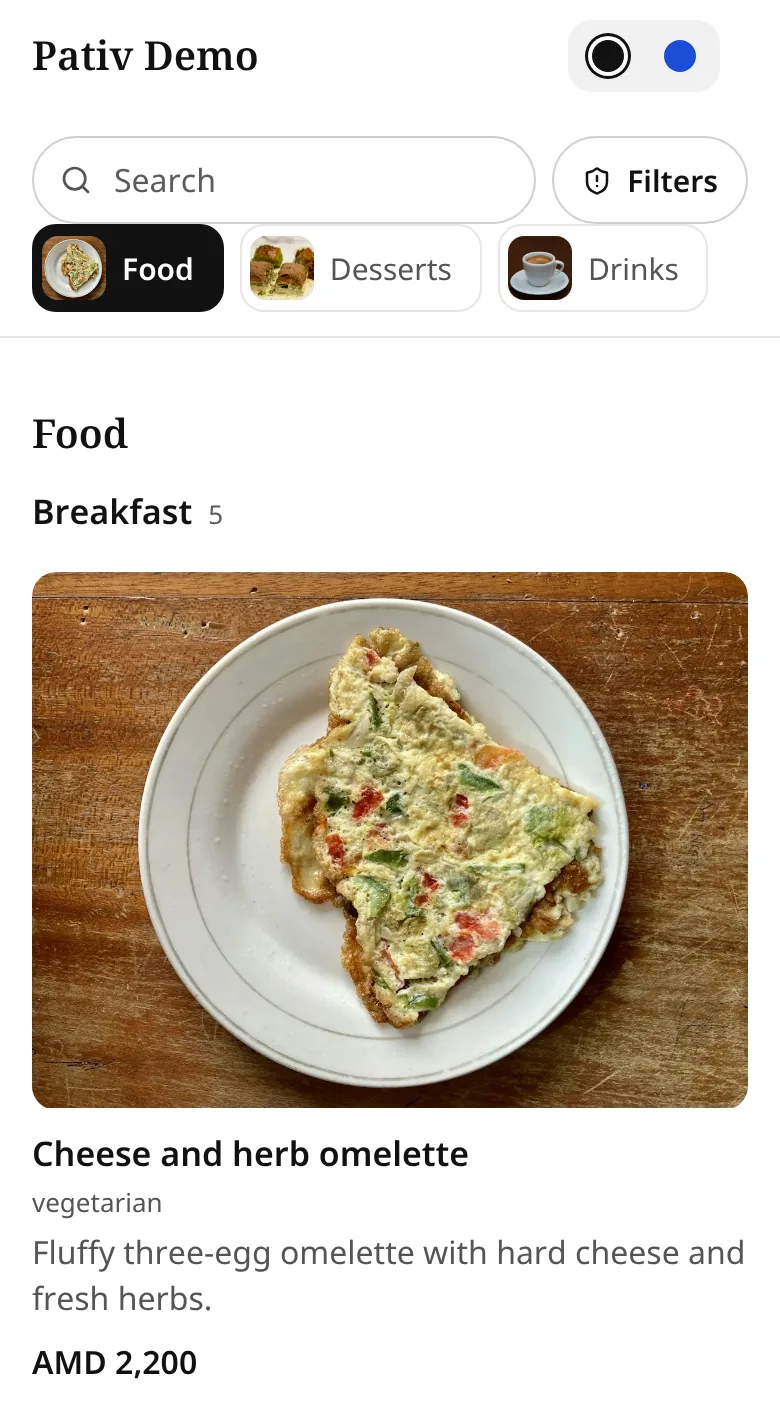
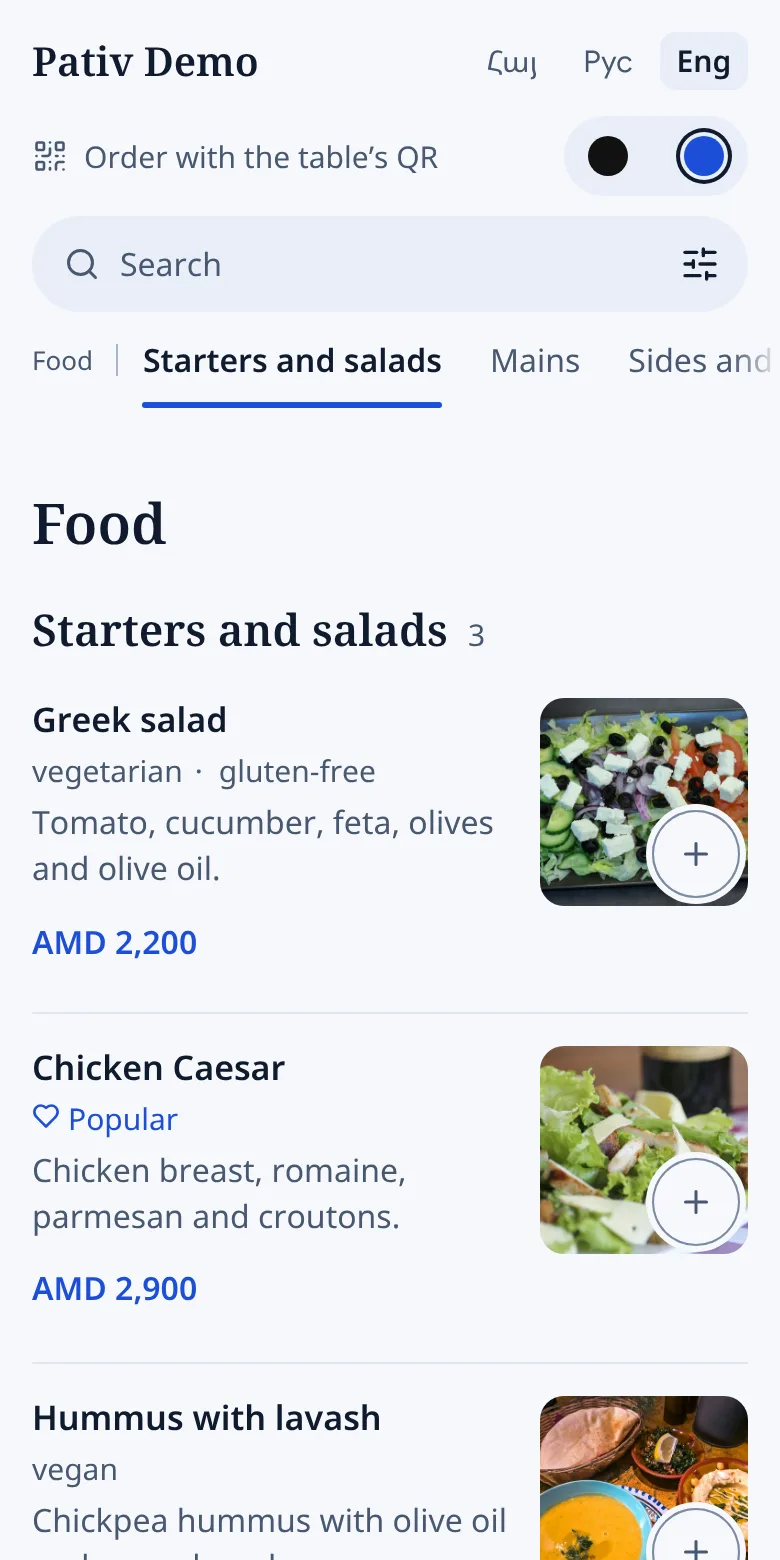
Landing: blue and white instead of sand, smaller plain type, hero shows one whole phone screen of the current demo menu (underline tabs, blue palette)
Claude-Session: https://claude.ai/code/session_018pVGXs4JKGewySeDAK8CYL

diff --git a/src/app/[locale]/page.tsx b/src/app/[locale]/page.tsx
@@ -30,9 +30,9 @@ const PHONE_HEIGHT: Partial<Record<(typeof SURFACES)[number], Record<string, num
 };
 const WIDE = { width: 1440, height: 1376 };
 
-// The hero picture: the live demo menu at 390 px (2x), down to just above the
-// hairline that opens the second dish, so it ends on white under the price.
-const HERO = { width: 780, height: 1418 };
+// The hero picture: one phone screen of the live demo menu (blue palette,
+// 390x780 at 2x), shown whole in a thin phone frame.
+const HERO = { width: 780, height: 1560 };
 
 const STEPS = ["step1", "step2", "step3"] as const;
 // Three facts the hero doesn't already say: the offline queue, the CSV export
@@ -41,19 +41,19 @@ const WHY = ["offline", "export", "telegram"] as const;
 
 // One container for the whole page: 1120 px, 16 px gutters on phones, 32 px from md.
 const container = "mx-auto w-full max-w-[1120px] px-4 md:px-8";
-const h2 = "display-face m-0 text-large leading-tight font-normal! md:text-[2rem]";
+const h2 = "m-0 text-[1.375rem] leading-tight font-semibold tracking-[-0.01em] md:text-[1.625rem]";
 // Plan features: regular weight in both columns, a short dash before each line.
 const planList =
-  "text-name m-0 mt-6 flex list-none flex-col gap-2 p-0 leading-normal [&>li]:relative [&>li]:pl-5 [&>li]:before:absolute [&>li]:before:left-0 [&>li]:before:text-slate [&>li]:before:content-['–']";
+  "text-label m-0 mt-6 flex list-none flex-col gap-2 p-0 leading-normal [&>li]:relative [&>li]:pl-5 [&>li]:before:absolute [&>li]:before:left-0 [&>li]:before:text-slate [&>li]:before:content-['–']";
 // From md the two plans share four subgrid rows (name, price, term, button),
 // so both 56 px buttons sit on one line right under the price; what follows
 // (the terms and the list) flows on its own in the fifth row, top-aligned.
 const planColumn =
   "flex flex-col items-start md:row-span-5 md:grid md:grid-rows-subgrid md:content-start md:justify-items-start";
 // The plan's terms in one plain sentence under the price.
-const planTerms = "text-name m-0 mt-8 max-w-[44ch] leading-normal text-pretty";
+const planTerms = "text-label m-0 mt-6 max-w-[44ch] leading-normal text-pretty";
 const outlineButton =
-  "text-ink inline-flex min-h-14 items-center justify-center rounded-full bg-white px-6 text-base font-semibold no-underline shadow-[inset_0_0_0_1px_var(--color-staff-field)]";
+  "text-ink inline-flex min-h-12 items-center justify-center rounded-full bg-white px-5 text-label font-semibold no-underline shadow-[inset_0_0_0_1px_var(--color-pativ-line)] hover:shadow-[inset_0_0_0_1px_var(--color-pativ-blue)]";
 const textLink =
   "text-ink inline-flex min-h-11 items-center text-label font-semibold no-underline underline-offset-4 hover:underline";
 
@@ -135,7 +135,7 @@ export default async function LocaleHome({ params }: { params: Promise<{ locale:
   const signupButton = (
     <a
       href={signupHref}
-      className="bg-ink inline-flex min-h-14 items-center justify-center rounded-full px-6 text-base font-semibold text-white no-underline"
+      className="bg-pativ-blue hover:bg-pativ-blue-deep inline-flex min-h-12 items-center justify-center rounded-full px-5 text-label font-semibold text-white no-underline"
     >
       {t("ctaSignup")}
     </a>
@@ -170,7 +170,7 @@ export default async function LocaleHome({ params }: { params: Promise<{ locale:
             </a>
             <a
               href={signupHref}
-              className="bg-ink text-label motion-safe:animate-in motion-safe:fade-in ml-1 hidden min-h-11 items-center rounded-full px-4 font-semibold whitespace-nowrap text-white no-underline group-data-cta:inline-flex motion-safe:duration-200 sm:inline-flex"
+              className="bg-pativ-blue hover:bg-pativ-blue-deep text-label motion-safe:animate-in motion-safe:fade-in ml-1 hidden min-h-11 items-center rounded-full px-4 font-semibold whitespace-nowrap text-white no-underline group-data-cta:inline-flex motion-safe:duration-200 sm:inline-flex"
             >
               <span className="sm:hidden">{t("nav.signup")}</span>
               <span className="hidden sm:inline">{t("ctaSignup")}</span>
@@ -180,28 +180,28 @@ export default async function LocaleHome({ params }: { params: Promise<{ locale:
       </header>
 
       <main>
-        {/* Hero: the headline and the real menu, which overlaps the band below
-            so the two read as one page. The picture opens the live demo. */}
+        {/* Hero: the headline and one phone screen of the real menu, whole and
+            on white. The picture opens the live demo. */}
         <section
-          className={`${container} grid gap-10 pt-8 md:pt-16 lg:grid-cols-12 lg:items-center lg:gap-8 lg:pt-20`}
+          className={`${container} grid gap-10 pt-8 pb-14 md:pt-14 md:pb-20 lg:grid-cols-12 lg:items-center lg:gap-8 lg:pt-16`}
         >
-          <div className="lg:col-span-6 lg:pb-24">
-            <h1 className="display-face m-0 max-w-[18em] text-[2.5rem] leading-[1.05] font-normal! tracking-[-0.02em] text-balance md:text-[3.5rem] xl:text-[4rem]">
+          <div className="lg:col-span-6">
+            <h1 className="m-0 max-w-[20em] text-[1.875rem] leading-[1.15] font-semibold tracking-[-0.015em] text-balance md:text-[2.25rem] xl:text-[2.5rem]">
               {t("title")}
             </h1>
-            <p className="text-slate mt-5 mb-0 max-w-[34ch] text-lg leading-normal text-pretty md:mt-8 md:text-xl">
+            <p className="text-slate mt-4 mb-0 max-w-[40ch] text-base leading-normal text-pretty md:mt-5 md:text-[1.0625rem]">
               {t("lead")}
             </p>
-            <div id="landing-hero-cta" className="mt-8 flex flex-col gap-3 sm:flex-row sm:flex-wrap md:mt-10">
+            <div id="landing-hero-cta" className="mt-7 flex flex-col gap-3 sm:flex-row sm:flex-wrap md:mt-8">
               <a
                 href={demoHref}
-                className="bg-ink inline-flex min-h-14 items-center justify-center rounded-full px-6 text-base font-semibold text-white no-underline"
+                className="bg-pativ-blue hover:bg-pativ-blue-deep inline-flex min-h-12 items-center justify-center rounded-full px-5 text-label font-semibold text-white no-underline"
               >
                 {t("ctaDemo")}
               </a>
               <a
                 href={signupHref}
-                className="text-ink inline-flex min-h-14 items-center justify-center rounded-full bg-white px-6 text-base font-semibold no-underline shadow-[inset_0_0_0_1px_var(--color-staff-field)]"
+                className={outlineButton}
               >
                 {t("ctaSignup")}
               </a>
@@ -214,7 +214,7 @@ export default async function LocaleHome({ params }: { params: Promise<{ locale:
                 role="img"
                 aria-label={t("qr.alt")}
                 shapeRendering="crispEdges"
-                className="text-ink size-28 shrink-0 rounded-[12px] shadow-[inset_0_0_0_1px_var(--color-hairline)]"
+                className="text-ink size-24 shrink-0 rounded-[12px] shadow-[inset_0_0_0_1px_var(--color-pativ-line)]"
               >
                 <path fill="currentColor" d={demoQr.d} />
               </svg>
@@ -223,11 +223,11 @@ export default async function LocaleHome({ params }: { params: Promise<{ locale:
               </p>
             </div>
           </div>
-          <div className="relative z-10 -mb-16 lg:col-span-5 lg:col-start-8 lg:-mb-24">
+          <div className="lg:col-span-5 lg:col-start-8">
             <a
               href={demoHref}
               aria-label={t("ctaDemo")}
-              className="shadow-soft-float mx-auto block w-full max-w-[360px] overflow-hidden rounded-[20px] lg:max-w-[400px]"
+              className="mx-auto block w-full max-w-[300px] overflow-hidden rounded-[36px] border-[6px] border-[#0f172a] bg-[#0f172a] shadow-[0_24px_48px_-20px_rgb(29_78_216/0.35)] lg:max-w-[320px]"
             >
               {/* eslint-disable-next-line @next/next/no-img-element -- static webp at 2x, sized below; no image runtime on the landing */}
               <img
@@ -236,25 +236,25 @@ export default async function LocaleHome({ params }: { params: Promise<{ locale:
                 width={HERO.width}
                 height={HERO.height}
                 fetchPriority="high"
-                className="block h-auto w-full"
+                className="block h-auto w-full rounded-[30px]"
               />
             </a>
           </div>
         </section>
 
-        <section aria-labelledby="landing-features" className="bg-sand">
-          <div className={`${container} pt-28 pb-14 md:pb-24 lg:pt-40`}>
+        <section aria-labelledby="landing-features" className="bg-pativ-tint">
+          <div className={`${container} py-14 md:py-20`}>
             <h2 id="landing-features" className={h2}>
               {t("features.title")}
             </h2>
             <Showcase labelledBy="landing-features" panels={panels} action={signupButton} />
             {/* Proof, as one plain line under a hairline: the pictures are the
                 working product, and the demo menu is one tap away. */}
-            <p className="border-sand-line text-name m-0 mt-12 flex flex-col items-start gap-x-4 gap-y-1 border-t pt-6 leading-normal text-pretty sm:flex-row sm:flex-wrap sm:items-center md:mt-16">
+            <p className="border-pativ-line text-label m-0 mt-12 flex flex-col items-start gap-x-4 gap-y-1 border-t pt-6 leading-normal text-pretty sm:flex-row sm:flex-wrap sm:items-center md:mt-16">
               <span>{t("proof.text")}</span>
               <a
                 href={demoHref}
-                className="text-ink text-name inline-flex min-h-11 items-center font-semibold underline underline-offset-4"
+                className="text-pativ-blue text-label inline-flex min-h-11 items-center font-semibold underline underline-offset-4"
               >
                 {t("proof.link")}
               </a>
@@ -263,18 +263,18 @@ export default async function LocaleHome({ params }: { params: Promise<{ locale:
         </section>
 
         <section aria-labelledby="landing-start">
-          <div className={`${container} py-14 md:py-24`}>
+          <div className={`${container} py-14 md:py-20`}>
             <h2 id="landing-start" className={h2}>
               {t("start.title")}
             </h2>
             <ol className="m-0 mt-8 grid list-none gap-10 p-0 md:mt-12 md:grid-cols-3 md:gap-12">
               {STEPS.map((s, i) => (
                 <li key={s} className="flex flex-col">
-                  <span aria-hidden="true" className="display-face text-figure num font-normal!">
+                  <span aria-hidden="true" className="num bg-pativ-tint text-pativ-blue flex size-9 items-center justify-center rounded-full text-label font-semibold">
                     {i + 1}
                   </span>
-                  <h3 className="text-heading m-0 mt-3 font-semibold">{t(`start.${s}.title`)}</h3>
-                  <p className="text-slate text-name m-0 mt-2 max-w-[34ch] leading-normal text-pretty">
+                  <h3 className="text-name m-0 mt-4 font-semibold">{t(`start.${s}.title`)}</h3>
+                  <p className="text-slate text-label m-0 mt-2 max-w-[36ch] leading-normal text-pretty">
                     {t(`start.${s}.text`)}
                   </p>
                 </li>
@@ -284,7 +284,7 @@ export default async function LocaleHome({ params }: { params: Promise<{ locale:
                 heading, so on a phone they read as features, not as a fourth
                 step; a 17 px lead and line each, under the 22 px heading. */}
             <div className="border-hairline mt-12 border-t pt-8 md:mt-16 md:pt-10">
-              <h3 id="landing-why" className="text-subtitle m-0 font-semibold">
+              <h3 id="landing-why" className="text-name m-0 font-semibold">
                 {t("start.why.title")}
               </h3>
               <ul
@@ -293,8 +293,8 @@ export default async function LocaleHome({ params }: { params: Promise<{ locale:
               >
                 {WHY.map((w) => (
                   <li key={w} className="flex flex-col gap-1">
-                    <span className="text-name font-semibold">{t(`start.why.${w}.lead`)}</span>
-                    <span className="text-slate text-name max-w-[34ch] leading-normal text-pretty">
+                    <span className="text-label font-semibold">{t(`start.why.${w}.lead`)}</span>
+                    <span className="text-slate text-label max-w-[36ch] leading-normal text-pretty">
                       {t(`start.why.${w}.text`)}
                     </span>
                   </li>
@@ -304,16 +304,16 @@ export default async function LocaleHome({ params }: { params: Promise<{ locale:
           </div>
         </section>
 
-        <section id="pricing" aria-labelledby="landing-pricing" className="bg-sand scroll-mt-16">
-          <div className={`${container} py-14 md:py-24`}>
+        <section id="pricing" aria-labelledby="landing-pricing" className="bg-pativ-tint scroll-mt-16">
+          <div className={`${container} py-14 md:py-20`}>
             <h2 id="landing-pricing" className={h2}>
               {t("pricing.title")}
             </h2>
             {/* Two plans side by side, one hairline between them and no boxes. */}
             <div className="mt-8 grid md:mt-12 md:grid-cols-2 md:grid-rows-[repeat(5,auto)]">
               <div className={`${planColumn} pb-10 md:pr-12 md:pb-0`}>
-                <h3 className="text-heading m-0 font-semibold">{t("pricing.menu.name")}</h3>
-                <p className="text-figure m-0 mt-3 font-semibold tracking-[-0.01em]">
+                <h3 className="text-name m-0 font-semibold">{t("pricing.menu.name")}</h3>
+                <p className="m-0 mt-2 text-[1.75rem] leading-tight font-semibold tracking-[-0.01em]">
                   {t("pricing.menu.price")}
                 </p>
                 <p className="text-slate text-label m-0 mt-1">{t("pricing.menu.term")}</p>
@@ -332,28 +332,28 @@ export default async function LocaleHome({ params }: { params: Promise<{ locale:
                 </div>
               </div>
               <div
-                className={`${planColumn} border-sand-line border-t pt-10 md:border-t-0 md:border-l md:pt-0 md:pl-12`}
+                className={`${planColumn} border-pativ-line border-t pt-10 md:border-t-0 md:border-l md:pt-0 md:pl-12`}
               >
-                <h3 className="text-heading m-0 font-semibold">{t("pricing.service.name")}</h3>
-                <p className="m-0 mt-3 flex flex-wrap items-baseline gap-x-2">
-                  <span className="num text-figure font-semibold tracking-[-0.01em] whitespace-nowrap">
+                <h3 className="text-name m-0 font-semibold">{t("pricing.service.name")}</h3>
+                <p className="m-0 mt-2 flex flex-wrap items-baseline gap-x-2">
+                  <span className="num text-[1.75rem] leading-tight font-semibold tracking-[-0.01em] whitespace-nowrap">
                     {t("pricing.service.price")}
                   </span>
-                  <span className="text-heading font-semibold">{t("pricing.service.per")}</span>
+                  <span className="text-name font-semibold">{t("pricing.service.per")}</span>
                 </p>
                 <p className="text-slate text-label m-0 mt-1">{t("pricing.service.year")}</p>
                 <div className="pt-6">{signupButton}</div>
                 <div>
                   {/* The two offers as two short lines, each with its own lead. */}
-                  <div className="mt-8 flex max-w-[44ch] flex-col gap-2">
-                    <p className="text-name m-0 leading-normal text-pretty">
+                  <div className="mt-6 flex max-w-[44ch] flex-col gap-2">
+                    <p className="text-label m-0 leading-normal text-pretty">
                       {t.rich("pricing.service.offer", { b: bold })}
                     </p>
-                    <p className="text-name m-0 leading-normal text-pretty">
+                    <p className="text-label m-0 leading-normal text-pretty">
                       {t.rich("pricing.service.founding", { b: bold })}
                     </p>
                   </div>
-                  <p className="text-name m-0 mt-6 leading-normal">{t("pricing.service.includes")}</p>
+                  <p className="text-label m-0 mt-6 leading-normal">{t("pricing.service.includes")}</p>
                   <ul className={`${planList} mt-2!`}>
                     <li>{t("pricing.service.l1")}</li>
                     <li>{t("pricing.service.l2")}</li>

diff --git a/src/features/landing/showcase.tsx b/src/features/landing/showcase.tsx
@@ -79,7 +79,7 @@ export function Showcase({
           sm), so the selected tab's underline sits on it. From sm each tab has an 8 px side pad under a
           -8 px margin, so the labels keep their 24/32 px gaps and the focus
           ring has room around the label. */}
-      <div className="sm:shadow-[inset_0_-1px_0_var(--color-sand-line)]">
+      <div className="sm:shadow-[inset_0_-1px_0_var(--color-pativ-line)]">
         <div
           role="tablist"
           aria-labelledby={labelledBy}
@@ -99,7 +99,7 @@ export function Showcase({
               aria-selected={i === active}
               tabIndex={i === active ? 0 : -1}
               onClick={() => setActive(i)}
-              className="text-slate hover:text-ink aria-selected:text-ink after:bg-ink text-name focus-visible:outline-ink relative flex h-12 min-w-11 shrink-0 items-center justify-start font-semibold tracking-normal whitespace-nowrap shadow-[inset_0_-1px_0_var(--color-sand-line)] after:absolute after:inset-x-0 after:bottom-0 after:h-0.5 after:rounded-full after:opacity-0 focus-visible:outline-2 focus-visible:-outline-offset-2 aria-selected:after:opacity-100 sm:justify-center sm:rounded-lg sm:px-2 sm:shadow-none sm:after:inset-x-2"
+              className="text-slate hover:text-ink aria-selected:text-ink after:bg-pativ-blue text-label focus-visible:outline-ink relative flex h-12 min-w-11 shrink-0 items-center justify-start font-semibold tracking-normal whitespace-nowrap shadow-[inset_0_-1px_0_var(--color-pativ-line)] after:absolute after:inset-x-0 after:bottom-0 after:h-0.5 after:rounded-full after:opacity-0 focus-visible:outline-2 focus-visible:-outline-offset-2 aria-selected:after:opacity-100 sm:justify-center sm:rounded-lg sm:px-2 sm:shadow-none sm:after:inset-x-2"
             >
               {p.tab}
             </button>
@@ -163,9 +163,9 @@ export function Showcase({
             </div>
           </div>
           <div className="flex flex-col items-start gap-3 lg:order-1">
-            <h3 className="text-subtitle m-0 font-semibold text-balance lg:-mt-1">{p.title}</h3>
-            <p className="text-slate text-name m-0 max-w-[40ch] leading-normal text-pretty">{p.text}</p>
-            <ul className="text-name [&>li]:before:text-slate m-0 mt-2 flex max-w-[40ch] list-none flex-col gap-2 p-0 leading-normal text-pretty [&>li]:relative [&>li]:pl-5 [&>li]:before:absolute [&>li]:before:left-0 [&>li]:before:content-['–']">
+            <h3 className="text-heading m-0 font-semibold text-balance lg:-mt-1">{p.title}</h3>
+            <p className="text-slate text-label m-0 max-w-[44ch] leading-normal text-pretty">{p.text}</p>
+            <ul className="text-label [&>li]:before:text-slate m-0 mt-2 flex max-w-[40ch] list-none flex-col gap-2 p-0 leading-normal text-pretty [&>li]:relative [&>li]:pl-5 [&>li]:before:absolute [&>li]:before:left-0 [&>li]:before:content-['–']">
               {p.points.map((point) => (
                 <li key={point}>{point}</li>
               ))}

diff --git a/src/app/globals.css b/src/app/globals.css
@@ -93,6 +93,13 @@
      6.7:1 on white). */
   --color-sand: #f5f0e8;
   --color-sand-line: #e4dccd;
+  /* The landing page is blue and white (the owner, 27 Nov): the demo menu's
+     blue (white on it 6.7:1, 6.7:1 as text on white), a pale blue band
+     instead of the sand (ink 17.6:1, slate 6.2:1) and its hairline. */
+  --color-pativ-blue: #1d4ed8;
+  --color-pativ-blue-deep: #1e40af;
+  --color-pativ-tint: #f2f6fd;
+  --color-pativ-line: #d9e2f3;
   --color-slate: #575c63;
 }
 
